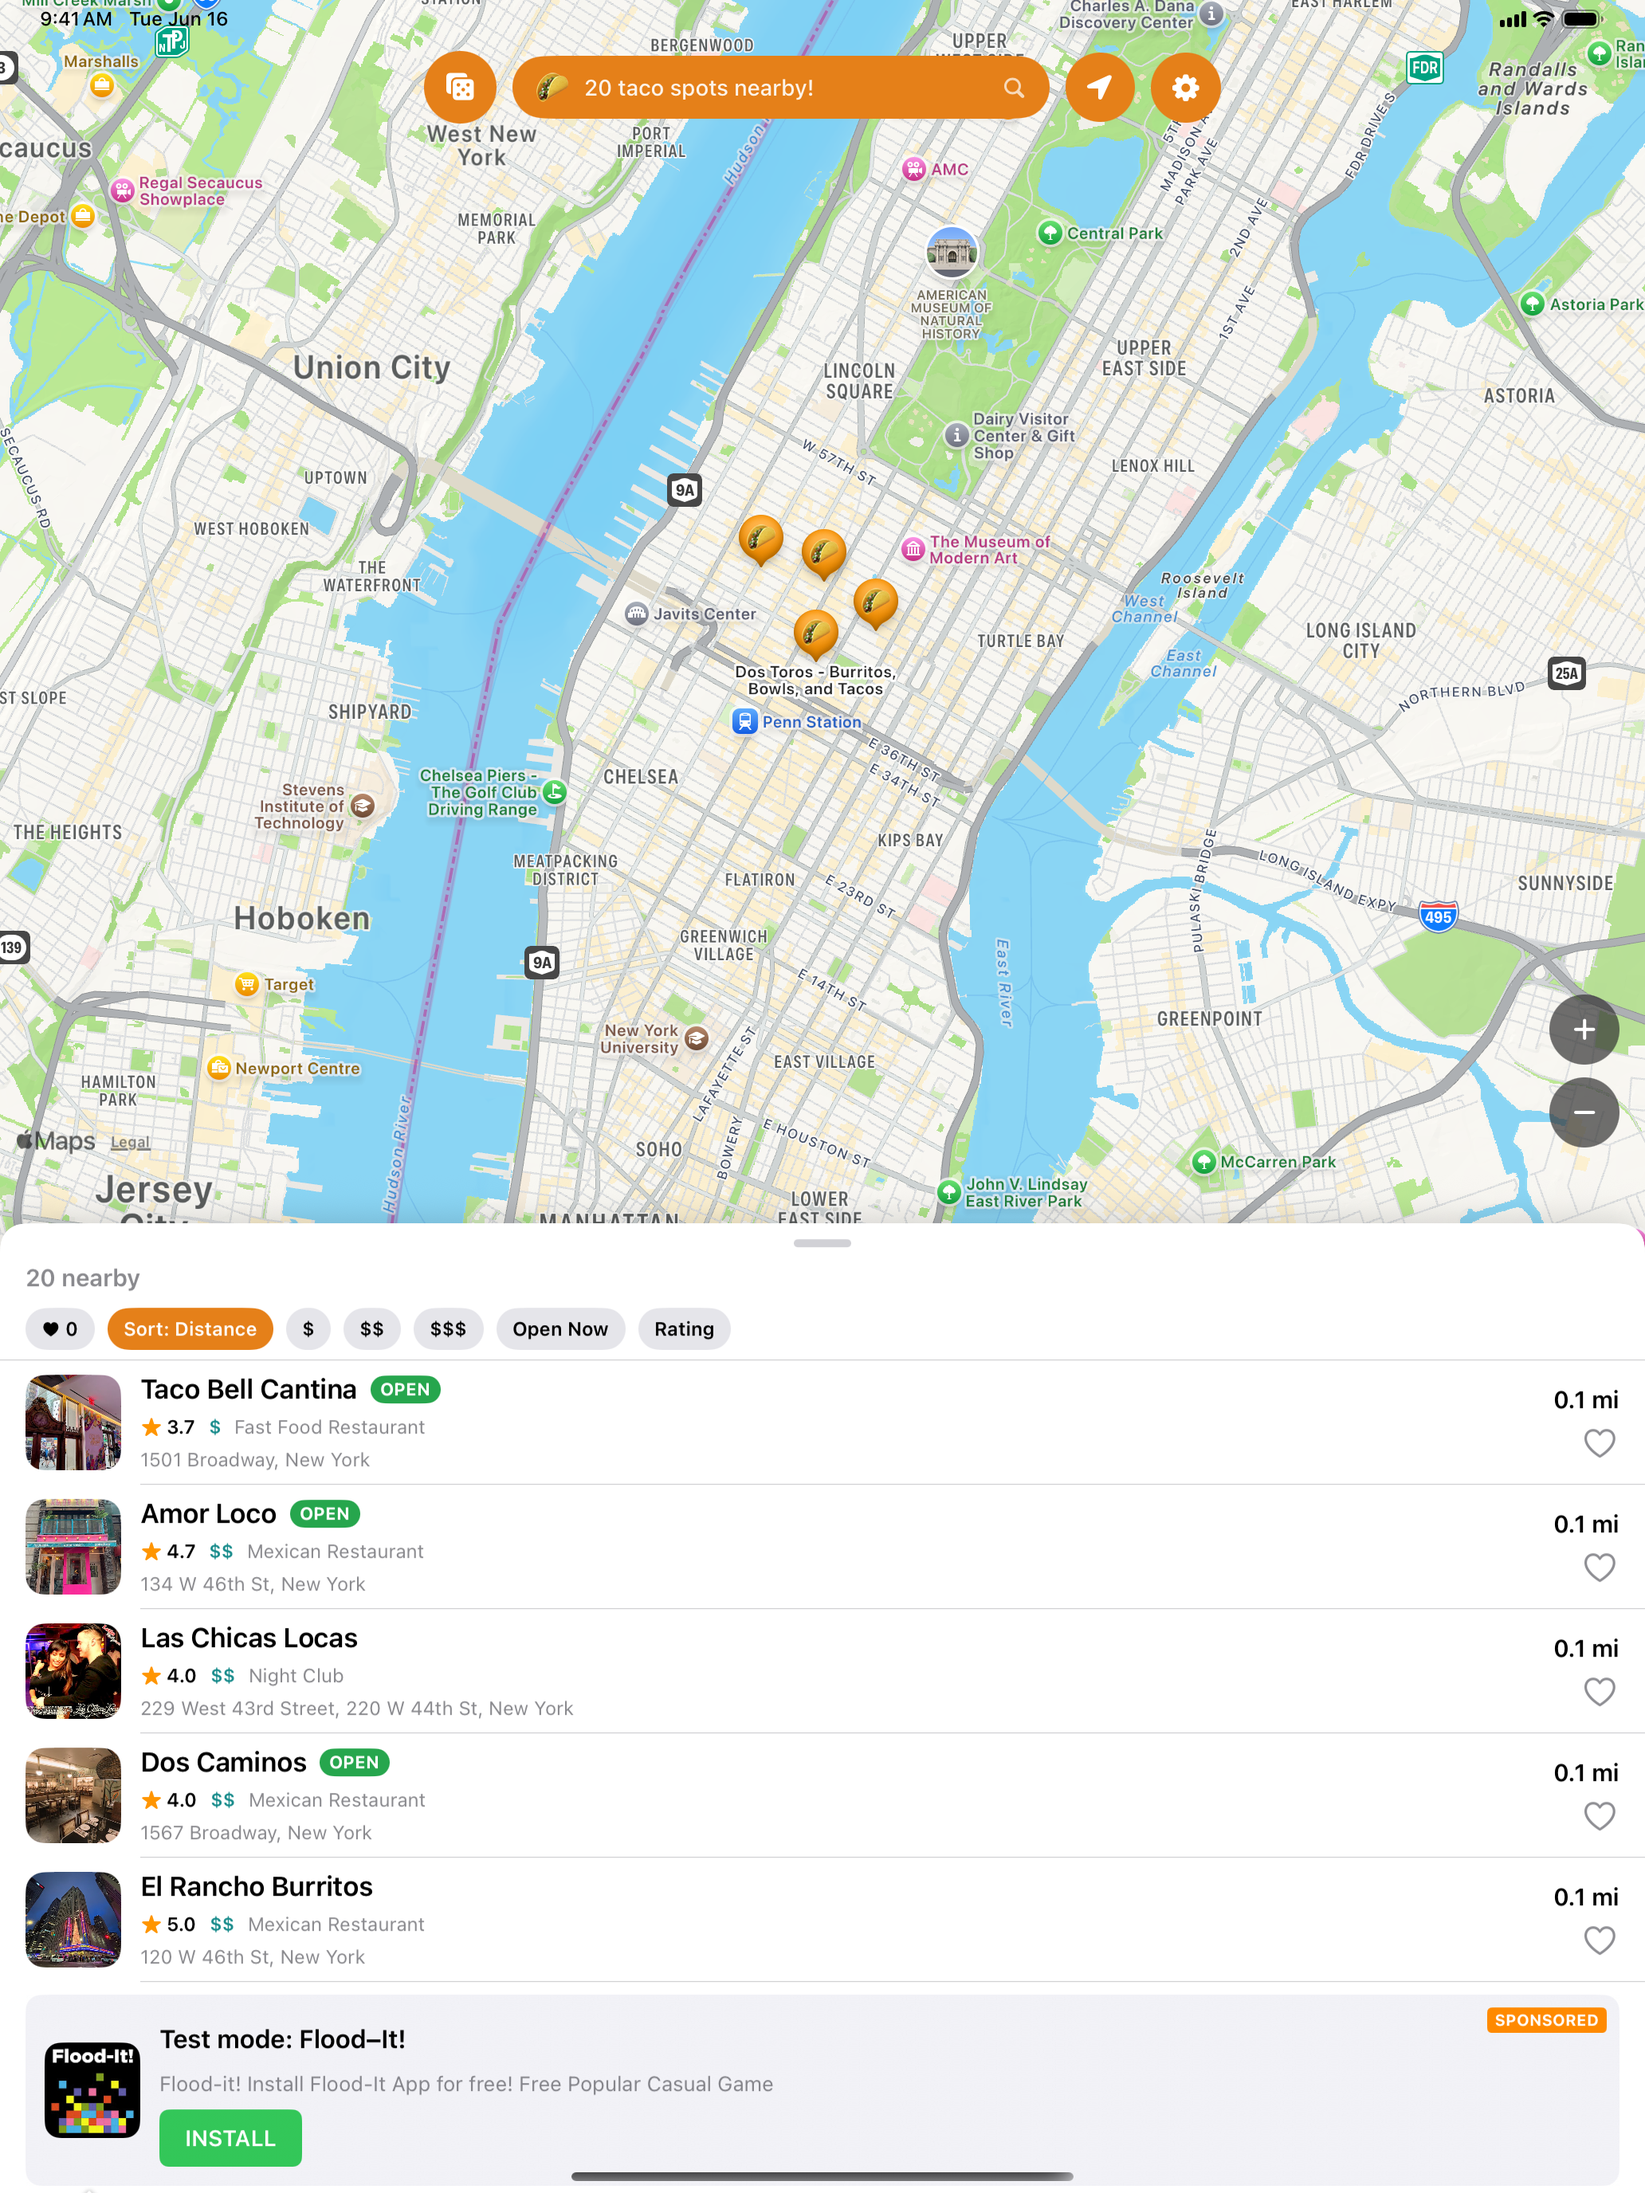
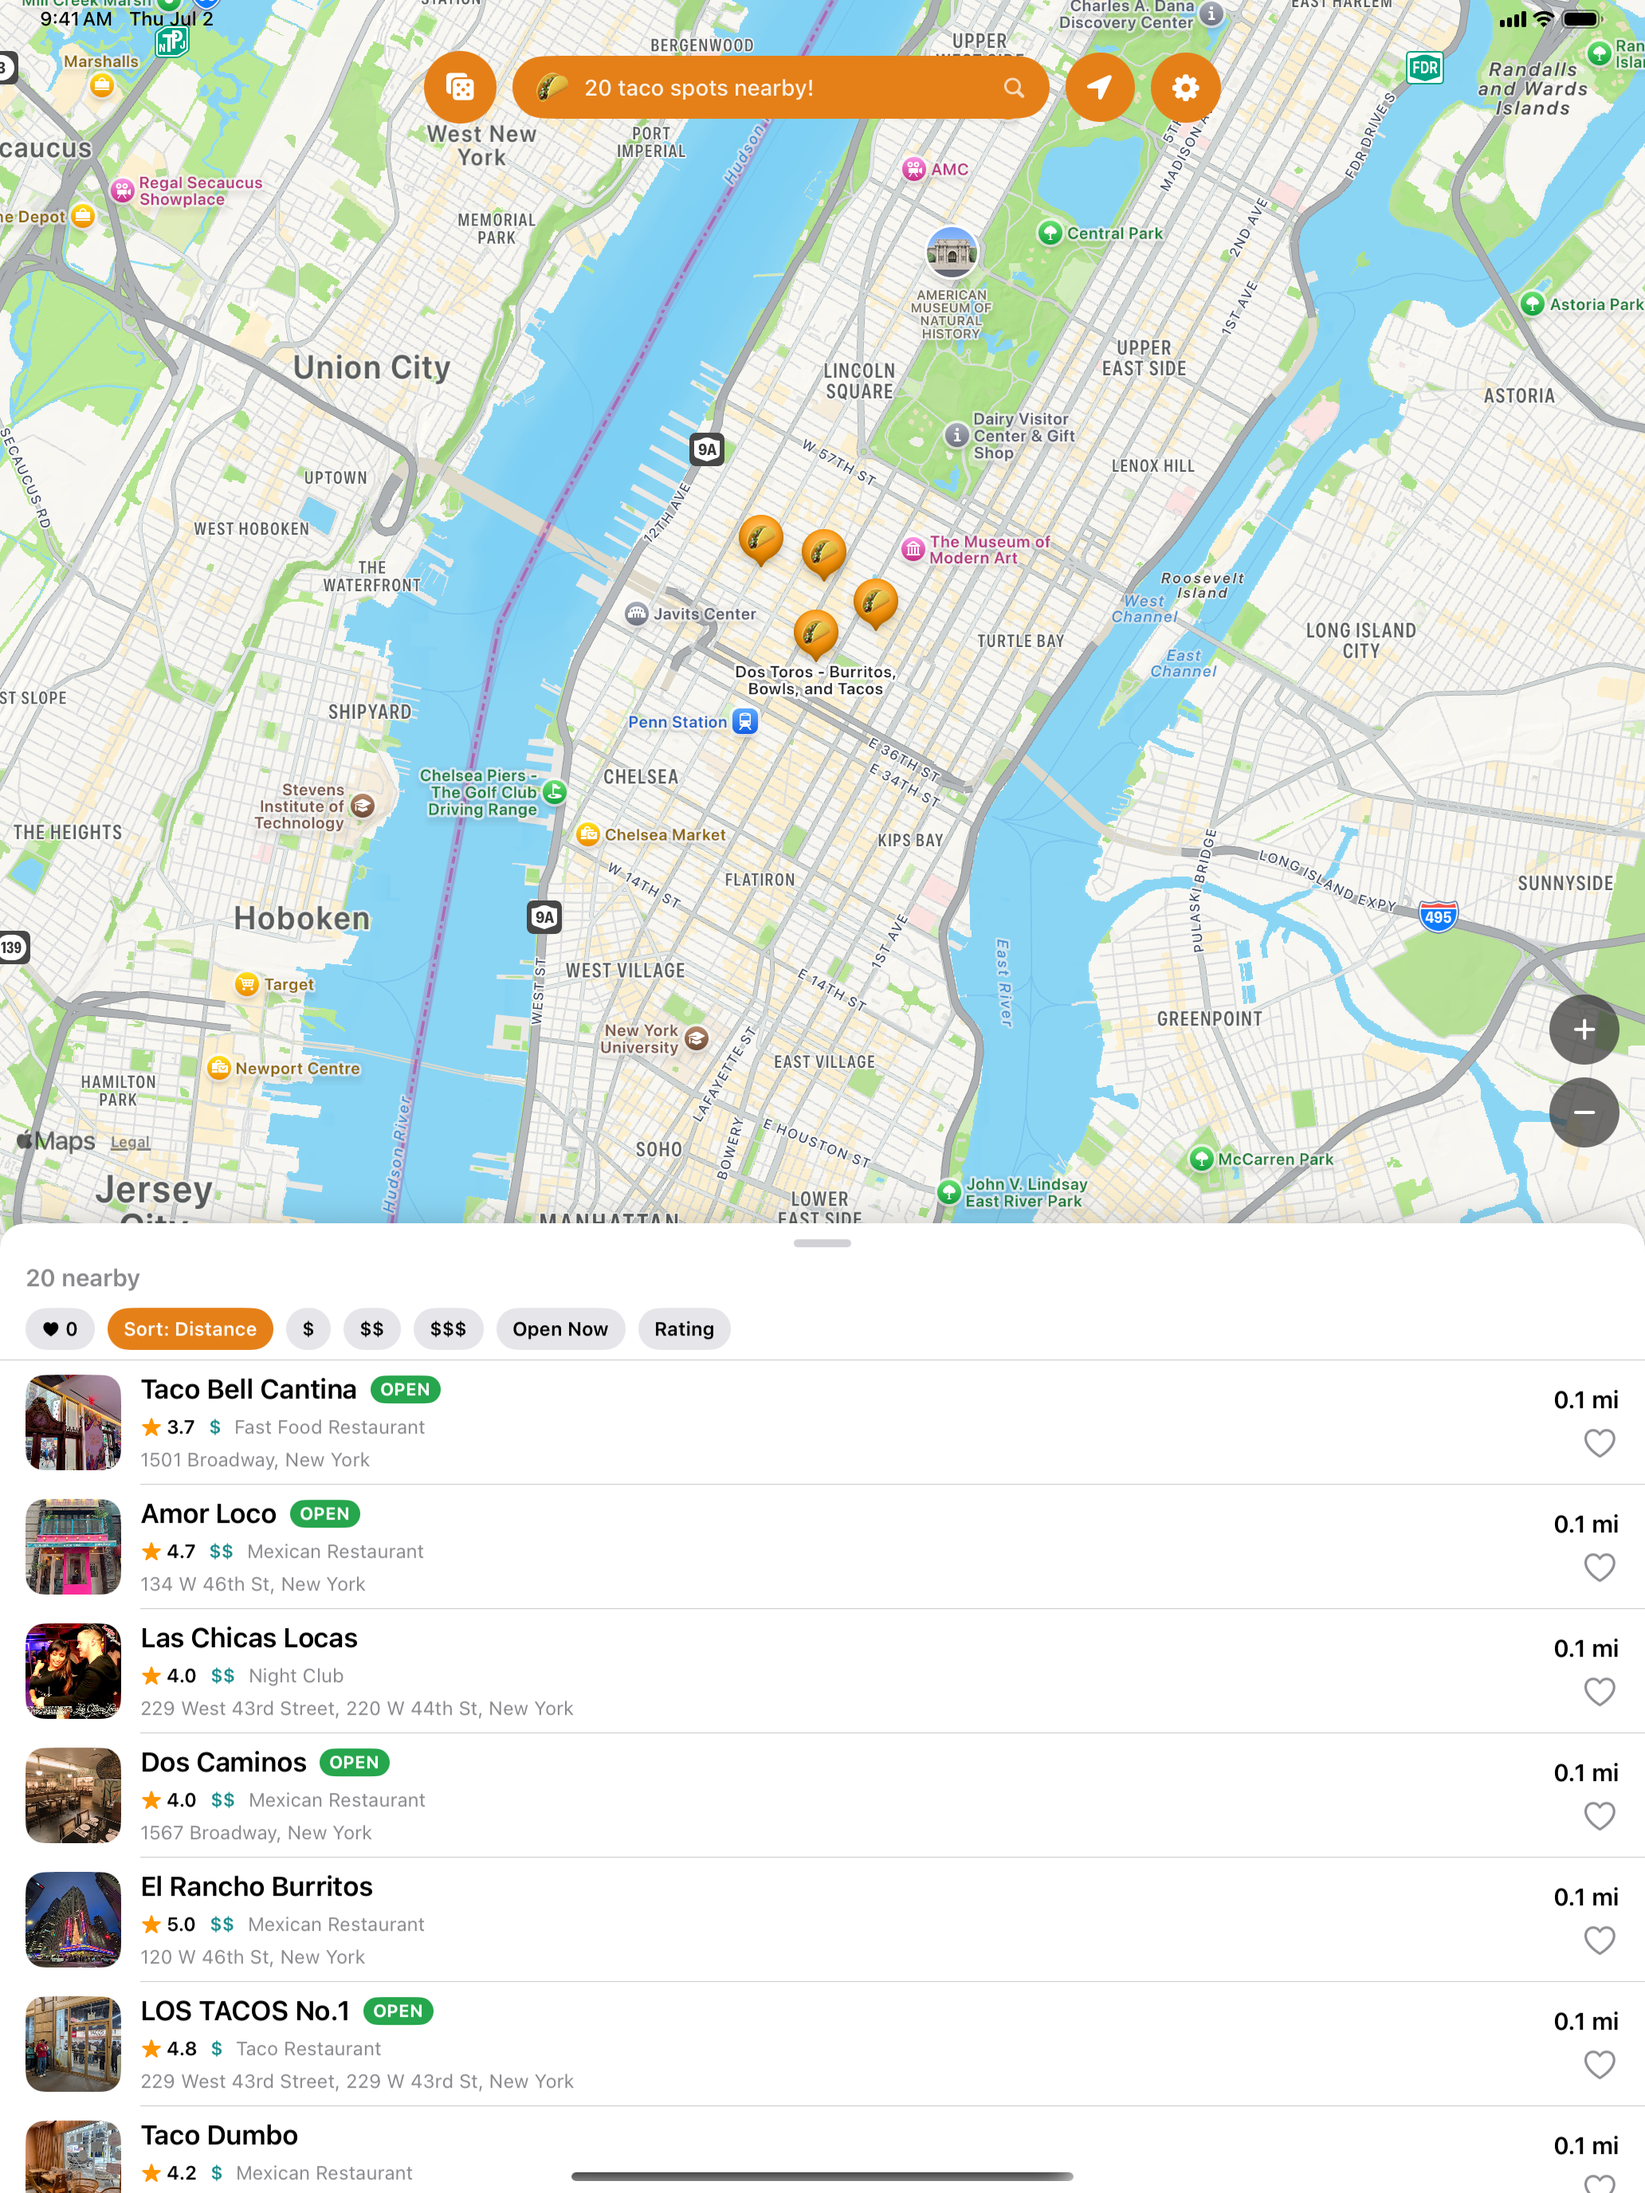
Update iPad screenshots, add new device captures, remove iPhone 11 Pro Max assets

diff --git a/screenshots/screenshots.html b/screenshots/screenshots.html
@@ -100,7 +100,7 @@
       <hr>
       <table>
         <tr>
-          <th colspan="2">
+          <th colspan="5">
             <a id="en-US-iPad Pro (12.9-inch)" class="deviceName" href="#en-US-iPad Pro (12.9-inch)">iPad Pro (12.9-inch)</a>
           </th>
         </tr>
@@ -115,21 +115,19 @@
               <img class="screenshot" src="./en-US/iPad Pro 13-inch (M4)-02-TacoList.png" style="width: 100%;" alt="en-US iPad Pro (12.9-inch)" data-tab="1" data-counter="2">
             </a>
           </td>
-        </tr>
-        <tr>
-          <th colspan="2">
-            <a id="en-US-iPhone 11 Pro Max" class="deviceName" href="#en-US-iPhone 11 Pro Max">iPhone 11 Pro Max</a>
-          </th>
-        </tr>
-        <tr>
           <td>
-            <a href="./en-US/iPhone 11 Pro Max-01-Map.png" target="_blank" class="screenshotLink">
-              <img class="screenshot" src="./en-US/iPhone 11 Pro Max-01-Map.png" style="width: 100%;" alt="en-US iPhone 11 Pro Max" data-tab="1" data-counter="3">
+            <a href="./en-US/iPad Pro 13-inch (M4)-03-TacoDetail.png" target="_blank" class="screenshotLink">
+              <img class="screenshot" src="./en-US/iPad Pro 13-inch (M4)-03-TacoDetail.png" style="width: 100%;" alt="en-US iPad Pro (12.9-inch)" data-tab="1" data-counter="3">
             </a>
           </td>
           <td>
-            <a href="./en-US/iPhone 11 Pro Max-02-TacoList.png" target="_blank" class="screenshotLink">
-              <img class="screenshot" src="./en-US/iPhone 11 Pro Max-02-TacoList.png" style="width: 100%;" alt="en-US iPhone 11 Pro Max" data-tab="1" data-counter="4">
+            <a href="./en-US/iPad Pro 13-inch (M4)-04-LuckyPick.png" target="_blank" class="screenshotLink">
+              <img class="screenshot" src="./en-US/iPad Pro 13-inch (M4)-04-LuckyPick.png" style="width: 100%;" alt="en-US iPad Pro (12.9-inch)" data-tab="1" data-counter="4">
+            </a>
+          </td>
+          <td>
+            <a href="./en-US/iPad Pro 13-inch (M4)-05-Filters.png" target="_blank" class="screenshotLink">
+              <img class="screenshot" src="./en-US/iPad Pro 13-inch (M4)-05-Filters.png" style="width: 100%;" alt="en-US iPad Pro (12.9-inch)" data-tab="1" data-counter="5">
             </a>
           </td>
         </tr>
@@ -170,35 +168,52 @@
           </td>
         </tr>
       </table>
-      <h2 id="01-Map" class="screen">01-Map</h2>
+      <h2 id="iPad Pro 13-inch (M4)-03-TacoDetail" class="screen">iPad Pro 13-inch (M4)-03-TacoDetail</h2>
       <hr>
       <table>
         <tr>
           <th colspan="1">
-            <a id="01-Map-iPhone 11 Pro Max" class="deviceName" href="#01-Map-iPhone 11 Pro Max">iPhone 11 Pro Max</a>
+            <a id="iPad Pro 13-inch (M4)-03-TacoDetail-iPad Pro (12.9-inch)" class="deviceName" href="#iPad Pro 13-inch (M4)-03-TacoDetail-iPad Pro (12.9-inch)">iPad Pro (12.9-inch)</a>
           </th>
         </tr>
         <tr>
           <td>
-            <a href="./en-US/iPhone 11 Pro Max-01-Map.png" target="_blank" class="screenshotLink">
-              <img class="screenshot" src="./en-US/iPhone 11 Pro Max-01-Map.png" style="width: 100%;" alt="en-US iPhone 11 Pro Max" data-tab="2" data-counter="3">
+            <a href="./en-US/iPad Pro 13-inch (M4)-03-TacoDetail.png" target="_blank" class="screenshotLink">
+              <img class="screenshot" src="./en-US/iPad Pro 13-inch (M4)-03-TacoDetail.png" style="width: 100%;" alt="en-US iPad Pro (12.9-inch)" data-tab="2" data-counter="3">
             </a>
             <div class="caption">en-US</div>
           </td>
         </tr>
       </table>
-      <h2 id="02-TacoList" class="screen">02-TacoList</h2>
+      <h2 id="iPad Pro 13-inch (M4)-04-LuckyPick" class="screen">iPad Pro 13-inch (M4)-04-LuckyPick</h2>
       <hr>
       <table>
         <tr>
           <th colspan="1">
-            <a id="02-TacoList-iPhone 11 Pro Max" class="deviceName" href="#02-TacoList-iPhone 11 Pro Max">iPhone 11 Pro Max</a>
+            <a id="iPad Pro 13-inch (M4)-04-LuckyPick-iPad Pro (12.9-inch)" class="deviceName" href="#iPad Pro 13-inch (M4)-04-LuckyPick-iPad Pro (12.9-inch)">iPad Pro (12.9-inch)</a>
           </th>
         </tr>
         <tr>
           <td>
-            <a href="./en-US/iPhone 11 Pro Max-02-TacoList.png" target="_blank" class="screenshotLink">
-              <img class="screenshot" src="./en-US/iPhone 11 Pro Max-02-TacoList.png" style="width: 100%;" alt="en-US iPhone 11 Pro Max" data-tab="2" data-counter="4">
+            <a href="./en-US/iPad Pro 13-inch (M4)-04-LuckyPick.png" target="_blank" class="screenshotLink">
+              <img class="screenshot" src="./en-US/iPad Pro 13-inch (M4)-04-LuckyPick.png" style="width: 100%;" alt="en-US iPad Pro (12.9-inch)" data-tab="2" data-counter="4">
+            </a>
+            <div class="caption">en-US</div>
+          </td>
+        </tr>
+      </table>
+      <h2 id="iPad Pro 13-inch (M4)-05-Filters" class="screen">iPad Pro 13-inch (M4)-05-Filters</h2>
+      <hr>
+      <table>
+        <tr>
+          <th colspan="1">
+            <a id="iPad Pro 13-inch (M4)-05-Filters-iPad Pro (12.9-inch)" class="deviceName" href="#iPad Pro 13-inch (M4)-05-Filters-iPad Pro (12.9-inch)">iPad Pro (12.9-inch)</a>
+          </th>
+        </tr>
+        <tr>
+          <td>
+            <a href="./en-US/iPad Pro 13-inch (M4)-05-Filters.png" target="_blank" class="screenshotLink">
+              <img class="screenshot" src="./en-US/iPad Pro 13-inch (M4)-05-Filters.png" style="width: 100%;" alt="en-US iPad Pro (12.9-inch)" data-tab="2" data-counter="5">
             </a>
             <div class="caption">en-US</div>
           </td>

diff --git a/TacoScoutScreenshots/TacoScoutScreenshots.swift b/TacoScoutScreenshots/TacoScoutScreenshots.swift
@@ -3,7 +3,7 @@ import XCTest
 final class TacoScoutScreenshots: XCTestCase {
 
     override func setUpWithError() throws {
-        continueAfterFailure = false
+        continueAfterFailure = true
     }
 
     @MainActor
@@ -54,7 +54,7 @@ final class TacoScoutScreenshots: XCTestCase {
             sleep(2)
             // 03 — Taco detail
             snapshot("03-TacoDetail")
-            app.buttons["Done"].tap()
+            app.swipeDown()
         }
 
         // 04 — Lucky Pick
@@ -63,7 +63,7 @@ final class TacoScoutScreenshots: XCTestCase {
             luckyPickButton.tap()
             sleep(2)
             snapshot("04-LuckyPick")
-            app.buttons["Dismiss"].firstMatch.tap()
+            app.swipeDown()
         }
 
         // 05 — Filters
